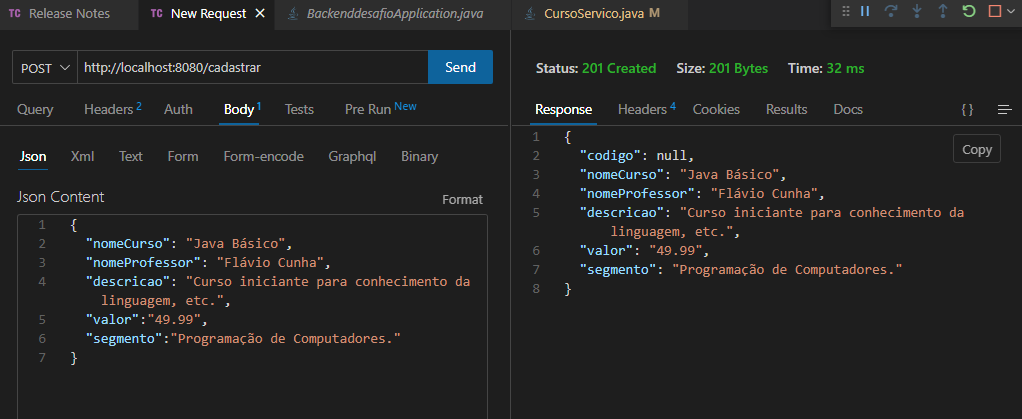
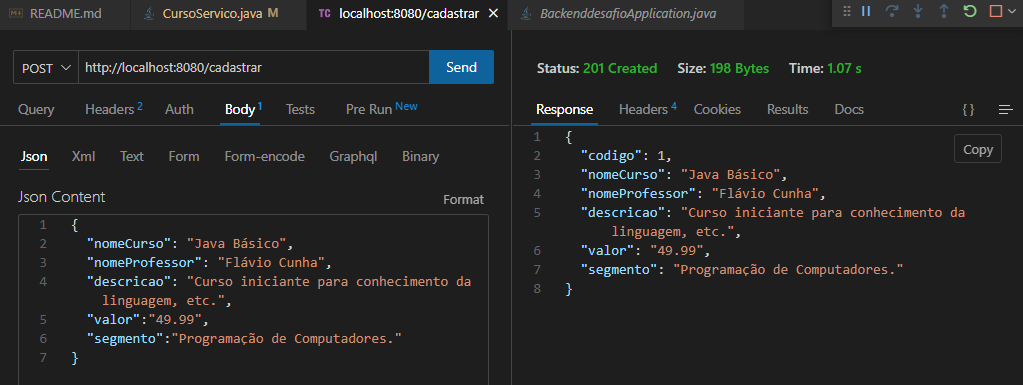
Provando eficiencia da API

diff --git a/ProjetosFullStack/desafio-certificado/backenddesafio/src/main/java/br/com/backenddesafio/backenddesafio/Services/CursoServico.java b/ProjetosFullStack/desafio-certificado/backenddesafio/src/main/java/br/com/backenddesafio/backenddesafio/Services/CursoServico.java
@@ -42,10 +42,10 @@ public class CursoServico {
         }
         else{
             if (procedimento.equals("cadastrar")) {
-                return new ResponseEntity<Curso>(c, HttpStatus.CREATED);
+                return new ResponseEntity<Curso>(cr.save(c), HttpStatus.CREATED);
             }
             else{
-                return new ResponseEntity<Curso>(c, HttpStatus.OK);
+                return new ResponseEntity<Curso>(cr.save(c), HttpStatus.OK);
             }
         }
     }

diff --git a/ProjetosFullStack/desafio-certificado/README.md b/ProjetosFullStack/desafio-certificado/README.md
@@ -38,6 +38,8 @@ Obetivo =()=>{
 <img src='TesteDeValidacao.png' alt='Imagens das etapas'>
 <h3>API em funcinamento, validado.</h3>
 <img src='TesteDeValidacao2.png' alt='Imagens das etapas'>
+<img src='TesteDeValidacao3.png' alt='Imagens das etapas'>
+<img src='TesteDeValidacao4.png' alt='Imagens das etapas'>
 <!-- Teste do backend efetuado corretamente. -->
 <img src='' alt='Imagem da finalizacao do backend'>
 <h2>2. Front-end, ... <strong>Formulário</strong> para inserção de dados e <strong>Tabela</strong> para listar esses dados.</h2>
